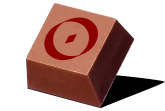
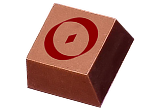
our-mission-homepage

Changed region(s): [[0.1548, 0.027, 1.0, 0.973], [0.3871, 0.2973, 0.4903, 0.4054]]

diff --git a/src/components/pages/homepage/OurMission.tsx b/src/components/pages/homepage/OurMission.tsx
@@ -1,6 +1,7 @@
 "use client";
 
 import Maroon from "@/components/icons/Maroon";
+import Button from "@/components/ui/button";
 import GradientImage from "@/components/ui/GradientImage";
 import { useGSAP } from "@gsap/react";
 import gsap from "gsap";
@@ -117,7 +118,7 @@ export default function OurMission() {
     tl1.to(
       ".container-chocolate-at-cocolily",
       {
-        top: "16.5%",
+        top: "27%",
         ease: "power1.inOut",
       },
       "<"
@@ -145,22 +146,111 @@ export default function OurMission() {
       },
       "<"
     );
+
+    // section 4
+    tl1.to(".container-chocolate-box-at-cocolily", {
+      bottom: "53%",
+      ease: "power1.inOut",
+    });
+    tl1.to(
+      ".container-chocolate-at-cocolily",
+      {
+        top: "40%",
+        ease: "power1.inOut",
+      },
+      "<"
+    );
+
+    // section 5
+    tl1.to(".container-chocolate-box-at-cocolily", {
+      bottom: "60%",
+      ease: "power1.inOut",
+    });
+    tl1.to(
+      ".container-chocolate-at-cocolily",
+      {
+        right: "31.2%",
+        rotate: 15,
+        scale: 0.5,
+        top: "59.2%",
+        ease: "power1.inOut",
+      },
+      "<"
+    );
+    tl1.to(
+      ".shadow-chocolate",
+      {
+        autoAlpha: 0,
+        ease: "power1.inOut",
+      },
+      "<"
+    );
+    tl1.to(
+      ".container-chocolate-box-top-at-cocolily",
+      {
+        top: "34%",
+        ease: "power1.inOut",
+      },
+      "<"
+    );
+
+    // section 6
+    tl1.to(".container-chocolate-bottom", {
+      top: "-10.6601%",
+      ease: "power1.inOut",
+    });
+    tl1.to(
+      ".container-chocolate-box-top-at-cocolily",
+      {
+        top: "63.5436%",
+        ease: "power1.inOut",
+      },
+      "<"
+    );
   }, []);
 
   return (
     <>
       <div className="w-full h-screen"></div>
-      <div className="w-full h-screen font-span bg-ruby-red container-at-cocolily">
-        <div className="absolute w-165d h-111d -translate-y-1/2 top-1/2 right-[29%] container-chocolate-at-cocolily">
-          <div className="w-full h-full chocolate-at-cocolily">
-            <GradientImage
-              src="/images/our-mission/Chocolate.png"
-              fitVariant="contain"
-            />
+      <div className="w-full h-screen font-span bg-ruby-red container-at-cocolily overflow-hidden">
+        <div className="w-full h-1080d absolute top-1/2 -translate-y-1/2 z-10 pointer-events-none">
+          <div className="absolute z-20 w-544d h-370d -translate-y-full top-[0%] right-[29%] container-chocolate-box-top-at-cocolily">
+            <div className="w-full h-full chocolate-box-top-at-cocolily">
+              <GradientImage
+                src="/images/our-mission/Chocolate-box-top.png"
+                fitVariant="contain"
+              />
+            </div>
+          </div>
+          <div className="absolute w-full z-10 h-full container-chocolate-bottom">
+            <div className="absolute z-20 w-165d h-111d -translate-y-1/2 top-[51%] right-[29%] container-chocolate-at-cocolily">
+              <div className="w-full h-full chocolate-at-cocolily relative">
+                <div className="w-full h-full absolute top-0 z-10">
+                  <GradientImage
+                    src="/images/our-mission/Chocolate.png"
+                    fitVariant="contain"
+                  />
+                </div>
+                <div className="w-full h-full absolute bottom-[-32%] left-[9%] scale-[0.8] shadow-chocolate">
+                  <GradientImage
+                    src="/images/our-mission/Chocolate-shadow.png"
+                    fitVariant="contain"
+                  />
+                </div>
+              </div>
+            </div>
+            <div className="absolute z-10 w-544d h-370d translate-y-full bottom-[0%] right-[29%] container-chocolate-box-at-cocolily">
+              <div className="w-full h-full chocolate-box-at-cocolily">
+                <GradientImage
+                  src="/images/our-mission/Chocolate-box.png"
+                  fitVariant="contain"
+                />
+              </div>
+            </div>
           </div>
         </div>
-        <div className="w-full h-full flex flex-col justify-center items-center text-center gap-[15vh]">
-          <div className="relative w-full">
+        <div className="w-full h-full text-center">
+          <div className="absolute w-full top-[15vh] left-1/2 -translate-x-1/2">
             <p className="font-abc uppercase text-seashell font-light text-anim-at-cocolily">
               at cocolily
             </p>
@@ -168,7 +258,7 @@ export default function OurMission() {
               our mission
             </p>
           </div>
-          <div className="relative w-full">
+          <div className="absolute w-full top-1/2 -translate-y-1/2 left-1/2 -translate-x-1/2">
             <div className="text-seashell font-light w-full">
               <h2 className="text-anim-at-cocolily">
                 We create <span className="italic">more</span>
@@ -191,9 +281,9 @@ export default function OurMission() {
               <div className="relative">
                 <h2 className="text-anim-at-cocolily-01">
                   <span className="text-anim-at-cocolily-is-to-celebrate inline-block">
-                    Is to <span className="italic">celebrate </span>
+                    Is to <span className="italic">celebrate</span>
                   </span>
-                  <span className="text-anim-at-cocolily-sweetness inline-block">
+                  <span className="text-anim-at-cocolily-sweetness inline-block font-semibold">
                     sweetness
                   </span>
                 </h2>
@@ -238,7 +328,19 @@ export default function OurMission() {
               </div>
             </div>
           </div>
-          <div className="maroon-at-cocolily">
+          <div className="absolute bottom-[19vh] left-1/2 -translate-x-1/2">
+            <div className="text-anim-at-cocolily-01 py-12d">
+              <Button
+                buttonType="link"
+                href="/"
+                isHoverTranslate
+                className="w-max uppercase font-sans"
+              >
+                more about us
+              </Button>
+            </div>
+          </div>
+          <div className="absolute bottom-[8vh] left-1/2 -translate-x-1/2 maroon-at-cocolily">
             <Maroon />
           </div>
         </div>

diff --git a/tailwind.config.js b/tailwind.config.js
@@ -13,10 +13,13 @@ module.exports = {
       width: {
         "100d": "calc((100/var(--bw)*100vw))",
         "165d": "calc((165/var(--bw)*100vw))",
+        "544d": "calc((544/var(--bw)*100vw))",
       },
       height: {
         "74d": "calc((74/var(--bw)*100vw))",
         "111d": "calc((111/var(--bw)*100vw))",
+        "370d": "calc((370/var(--bw)*100vw))",
+        "1080d": "calc((1080/var(--bw)*100vw))",
       },
       aspectRatio: { wide: "16/9" },
       colors: {

diff --git a/src/components/pages/homepage/Homepage.tsx b/src/components/pages/homepage/Homepage.tsx
@@ -4,7 +4,7 @@ import OurMission from "./OurMission";
 const Homepage = () => {
   return (
     <div className="h-screen grid place-items-center">
-      <h1 className="font-span text-165d">HOMEPAGE</h1>
+      {/* <h1 className="font-span text-165d">HOMEPAGE</h1> */}
       <OurMission />
     </div>
   );
